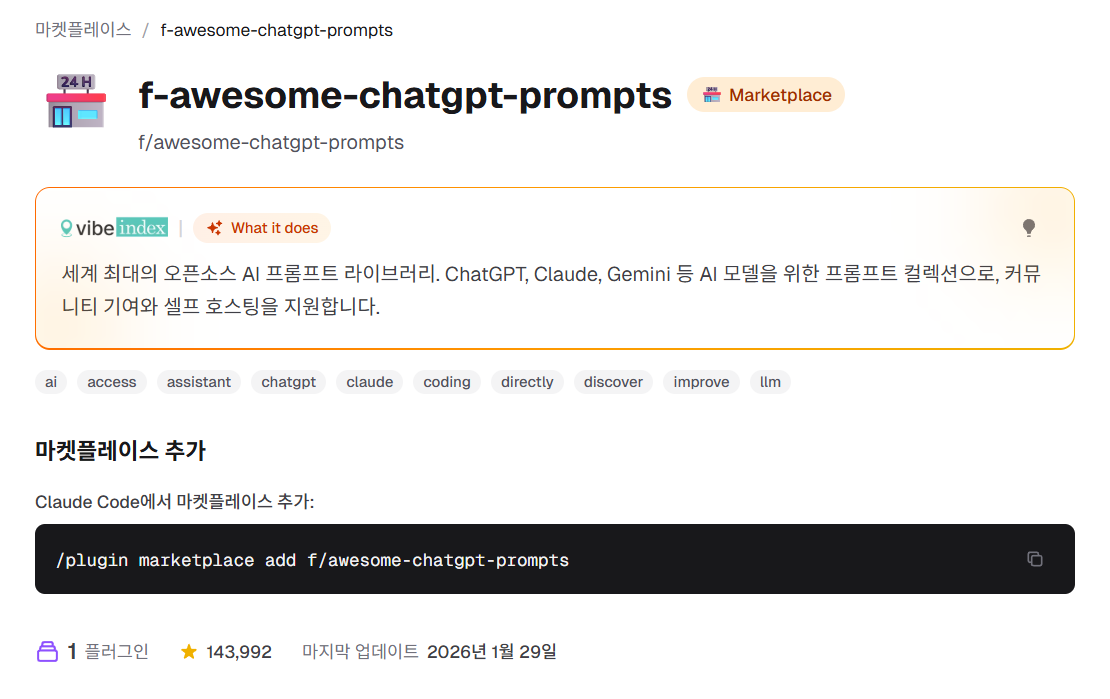
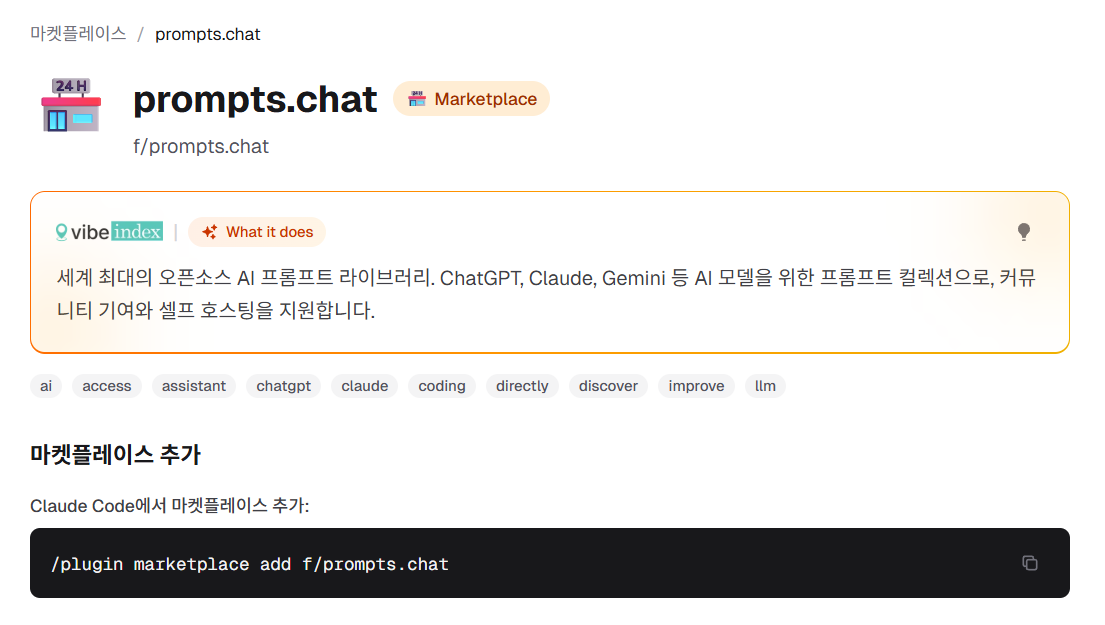
Update screenshots and change marketplace to f/prompts.chat

diff --git a/이어서-배우기-02/README.md b/이어서-배우기-02/README.md
@@ -24,7 +24,7 @@ Vibe Ranking에 있는 여러 자료들 중 우리 프로젝트에 맞는 자료
 
 <img src="figures/update-02-23.png" width="700">
 
-이중 f/awesome-chatgpt-prompts를 설치해 보겠습니다. 프롬프트를 여러 사용자들이 모아서 공유하는 서비스를 쓰게 해 주는 플러그인입니다.
+이중 f/prompts.chat를 설치해 보겠습니다. 프롬프트를 여러 사용자들이 모아서 공유하는 서비스를 쓰게 해 주는 플러그인입니다.
 
 <img src="figures/update-02-24.png" width="700">
 
@@ -33,10 +33,10 @@ Vibe Ranking에 있는 여러 자료들 중 우리 프로젝트에 맞는 자료
 설치 명령어 부분을 복사합니다.
 
 ```
-/plugin marketplace add f/awesome-chatgpt-prompts
+/plugin marketplace add f/prompts.chat
 ```
 
-이것을 그대로 클로드 코드의 프롬프트에 입력하면 설치가 됩니다. 아래와 같이 이미 Add Marketplace에 들어와 있다면, 아래와 같이 f/awesome-chatgpt-prompts 부분만 입력합니다.
+이것을 그대로 클로드 코드의 프롬프트에 입력하면 설치가 됩니다. 아래와 같이 이미 Add Marketplace에 들어와 있다면, 아래와 같이 f/prompts.chat 부분만 입력합니다.
 
 <img src="figures/update-02-06.png" width="500">
 
